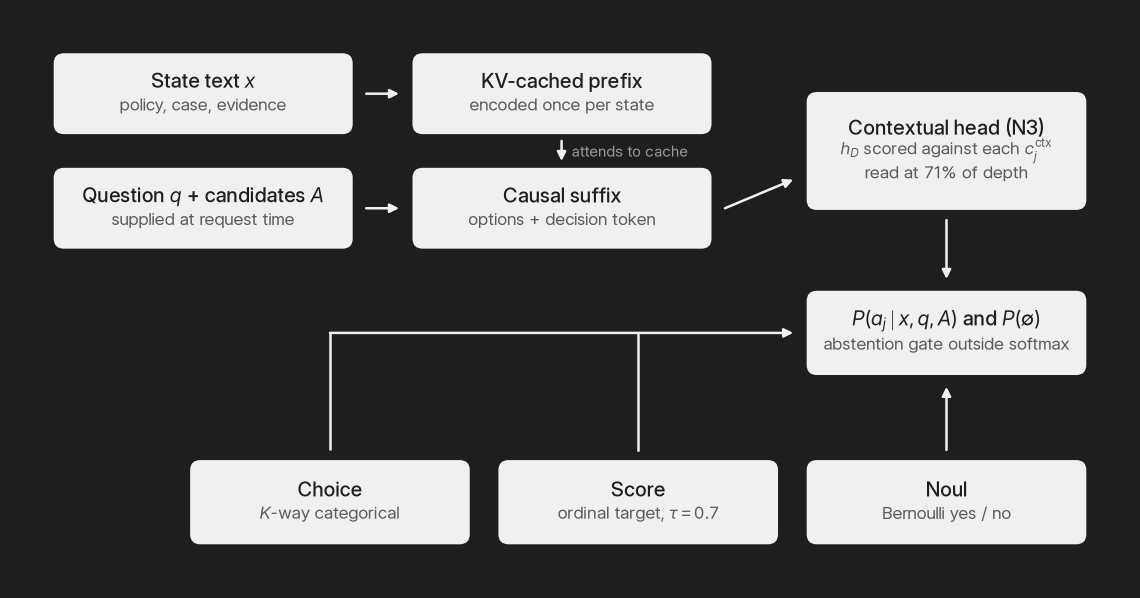
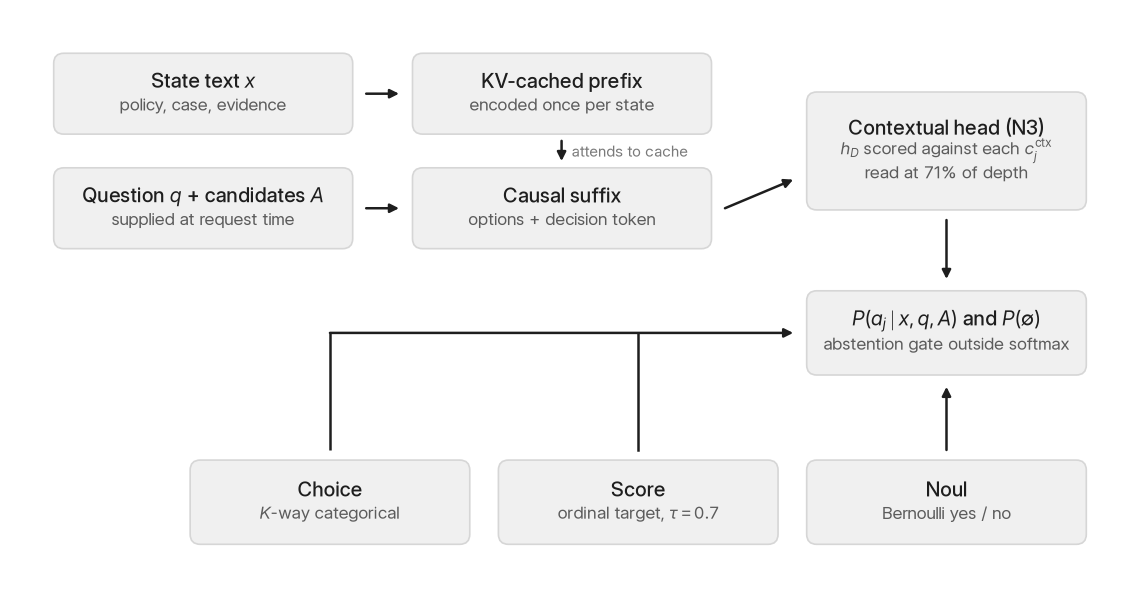
fig_architecture: white background for print (light cards with a hairline edge, dark connectors)

diff --git a/scripts/make_figures.py b/scripts/make_figures.py
@@ -122,14 +122,14 @@ def bench_single_decision_ms(rel_dir: str, k: str, state_tokens: str = "256") ->
 # fig_architecture — schematic of the decision pass (no run data, vector only)
 # ---------------------------------------------------------------------------
 def fig_architecture():
-    # Dark-panel schematic after the Figma reference (node 36:71): light cards, thin white connectors.
+    # Schematic after the Figma reference, on white for print (node 36:71): light cards, thin dark connectors.
     # Coordinates are in the reference's pixel space (y down).
     from matplotlib import font_manager
     for f in ("Regular", "Medium", "Italic"):
         p = Path.home() / "Library/Fonts" / f"Inter_24pt-{f}.ttf"
         if p.exists():
             font_manager.fontManager.addfont(str(p))
-    BG, CARD, INK, SUB, LINE = "#1e1e1e", "#f0f0f0", "#1e1e1e", "#5c5c5c", "#f0f0f0"
+    BG, CARD, INK, SUB, LINE = "#ffffff", "#f0f0f0", "#1e1e1e", "#5c5c5c", "#1e1e1e"
     rc = {"font.family": "Inter 24pt", "mathtext.fontset": "custom", "mathtext.rm": "Inter 24pt",
           "mathtext.it": "Inter 24pt:italic", "mathtext.bf": "Inter 24pt:medium", "pdf.fonttype": 42}
     with plt.rc_context(rc):
@@ -144,7 +144,7 @@ def fig_architecture():
         def card(x, y, w, h, title, *subs):
             # 1 pt = 3.3 px here; titles 7.2 pt, subtitles 6.2 pt, 25 px between lines
             ax.add_patch(FancyBboxPatch((x, y), w, h, boxstyle="round,pad=0,rounding_size=12",
-                                        linewidth=0, facecolor=CARD))
+                                        linewidth=0.6, edgecolor="#d6d6d6", facecolor=CARD))
             n = 1 + len(subs)
             y0 = y + h / 2 - 25 * (n - 1) / 2 - (3 if subs else 0)
             ax.text(x + w / 2, y0, title, ha="center", va="center", fontsize=7.2,
@@ -176,7 +176,7 @@ def fig_architecture():
         line([(371, 48), (410, 48)])
         line([(371, 184), (410, 184)])
         line([(603, 104), (603, 128)])
-        ax.text(615, 116, "attends to cache", ha="left", va="center", fontsize=5.6, color="#9a9a9a")
+        ax.text(615, 116, "attends to cache", ha="left", va="center", fontsize=5.6, color="#7a7a7a")
         line([(797, 184), (878, 150)])
         line([(1060, 198), (1060, 268)])
         line([(1060, 471), (1060, 396)])
